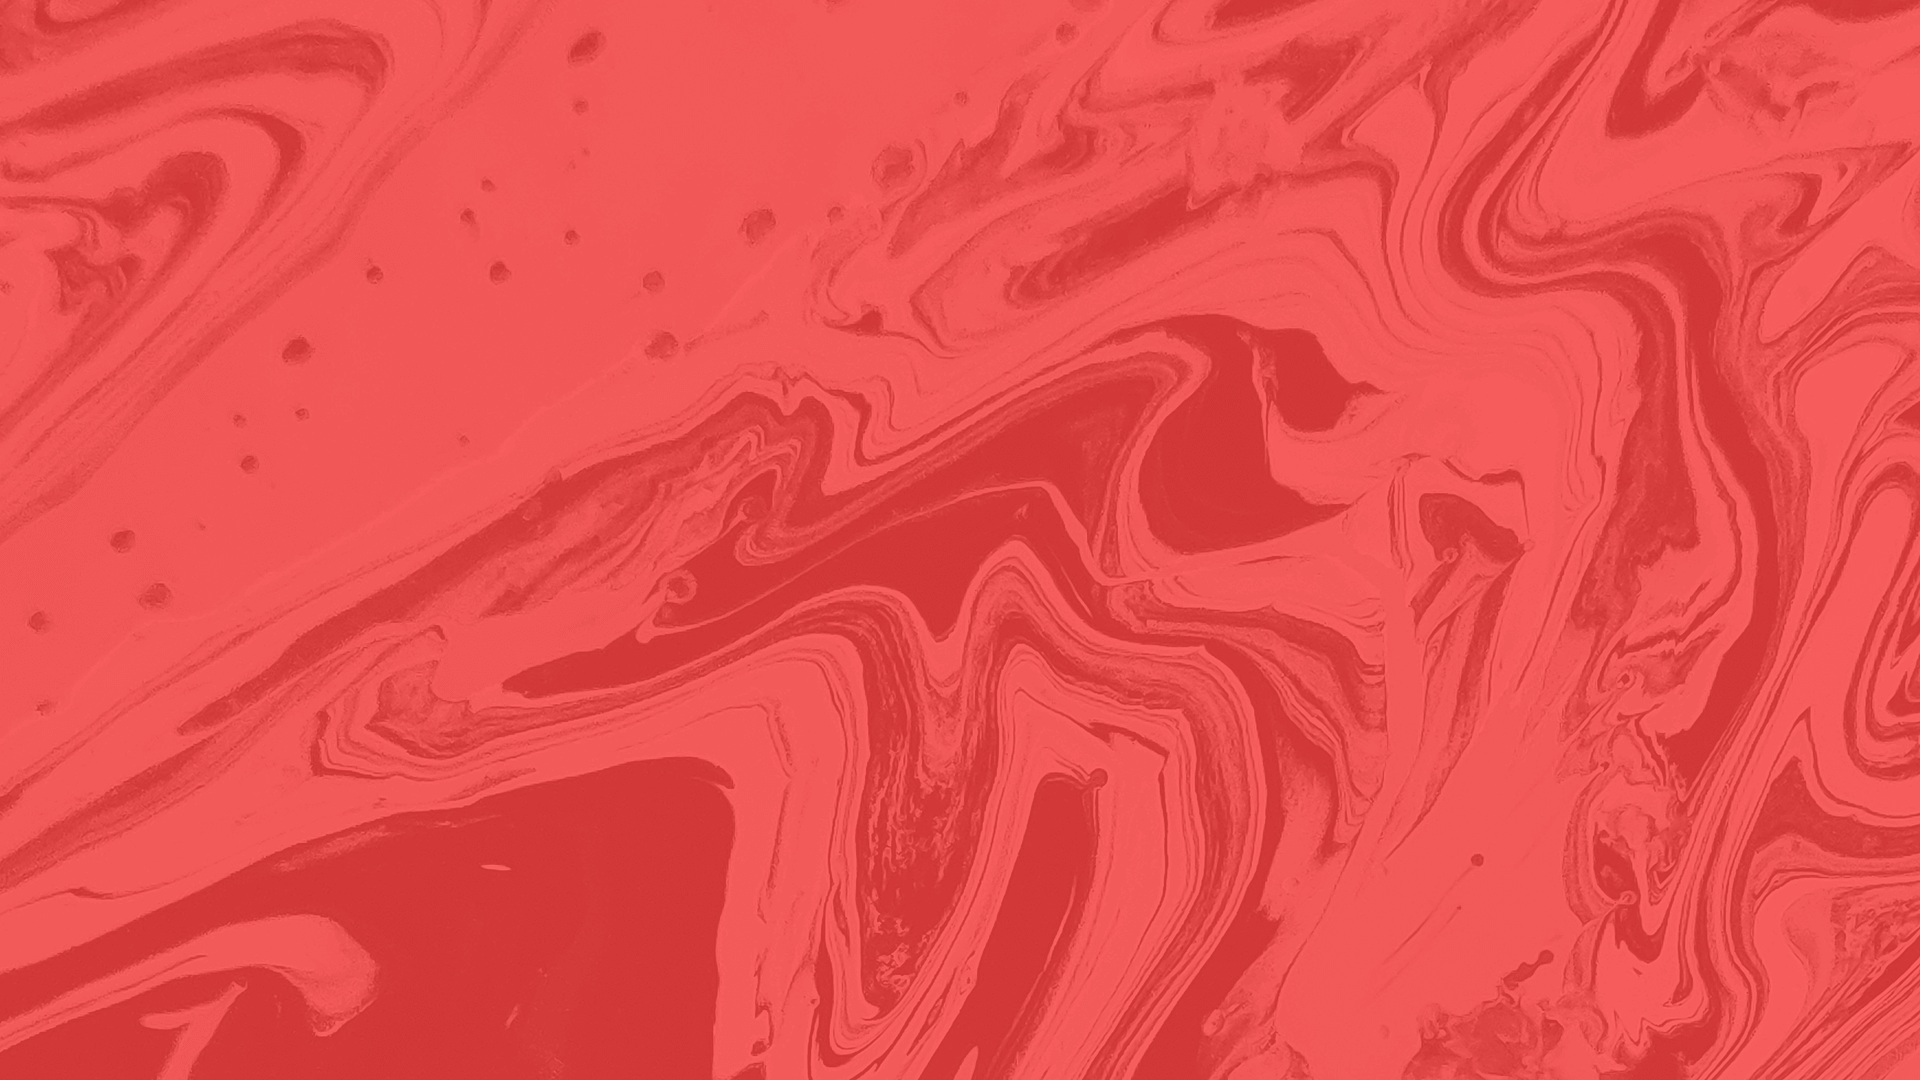
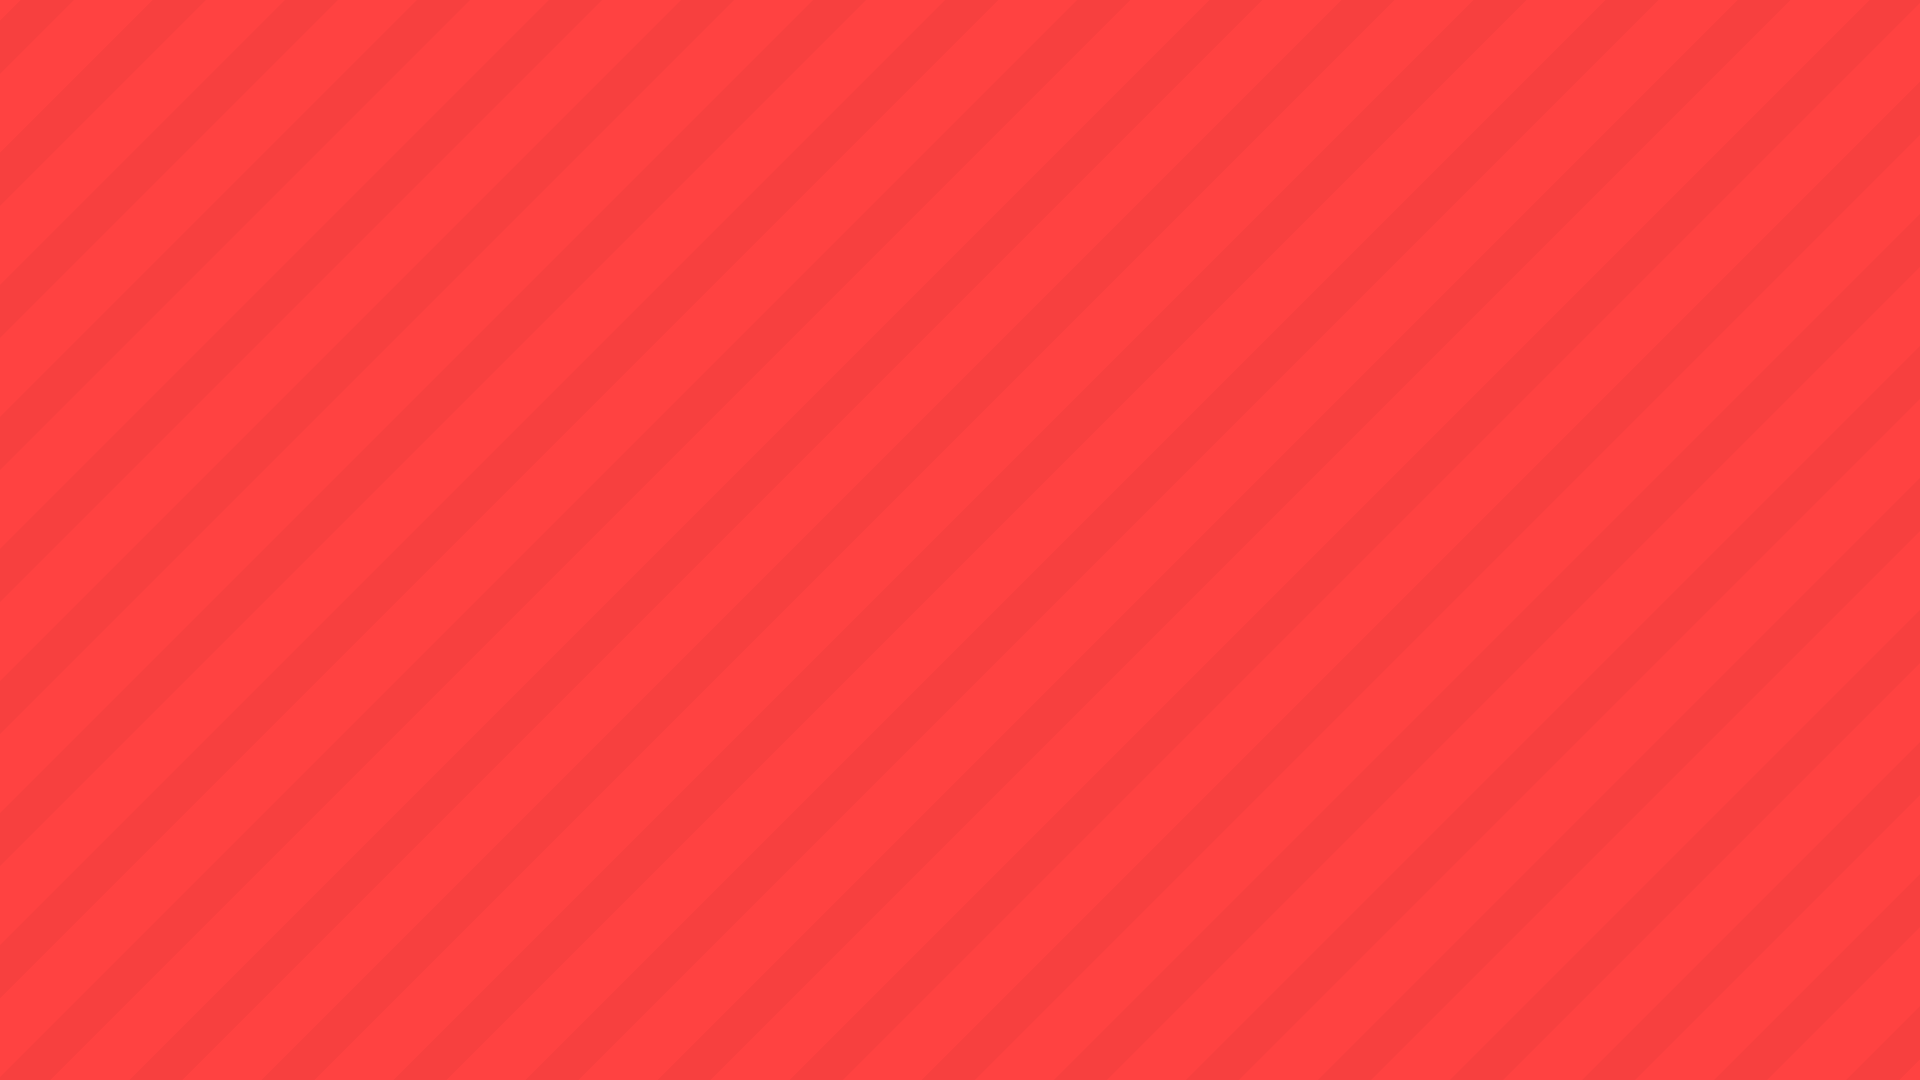
Correccion scroll y BG Red

diff --git a/css/style.css b/css/style.css
@@ -575,7 +575,9 @@ body {
     font-size: 8rem;
     text-align: center;
     -webkit-text-stroke: 1px #FE403F;
-    opacity: 0.1; } }
+    opacity: 0.1; }
+  .home__hero__col2 {
+    padding-top: 200px; } }
 
 /* COMPUTADORA GRANDE */
 @media (min-width: 1200px) {
@@ -608,7 +610,9 @@ body {
     font-size: 9rem;
     text-align: center;
     -webkit-text-stroke: 1px #FE403F;
-    opacity: 0.1; } }
+    opacity: 0.1; }
+  .home__hero__col2 {
+    padding-top: 150px; } }
 
 /* COLORES */
 /* TIPOGRAFÍA */
@@ -616,7 +620,10 @@ body {
   font-size: 62,5%; }
 
 .home__about {
-  background: linear-gradient(-90deg, #ff4747 0%, #ff3b3b 100%);
+  background-image: url(../imagenes/bg-about.png);
+  background-position: center;
+  background-repeat: no-repeat;
+  background-size: cover;
   padding: 200px 50px 200px 50px !important; }
 
 .home__about__col1 {
@@ -959,7 +966,10 @@ body {
   font-size: 62,5%; }
 
 .home__contacto {
-  background: linear-gradient(90deg, #ff4747 0%, #ff3b3b 100%);
+  background-image: url(../imagenes/bg-about.png);
+  background-position: center;
+  background-repeat: no-repeat;
+  background-size: cover;
   padding: 200px 50px 200px 50px !important; }
 
 .home__contacto__col1 {
@@ -1000,7 +1010,8 @@ body {
   color: white;
   font-family: rift, sans-serif;
   font-size: 1rem;
-  font-style: italic; }
+  font-style: italic;
+  outline: none; }
 
 .home__contacto__input::placeholder {
   font-family: rift, sans-serif;
@@ -1020,7 +1031,8 @@ body {
   color: white;
   font-family: rift, sans-serif;
   font-size: 1rem;
-  font-style: italic; }
+  font-style: italic;
+  outline: none; }
 
 .home__contacto__mensaje::placeholder {
   font-family: rift, sans-serif;

diff --git a/scss/home__contacto.scss b/scss/home__contacto.scss
@@ -1,7 +1,10 @@
 @import "variables.scss";
 
 .home__contacto {
-    background: linear-gradient(90deg, rgba(255,71,71,1) 0%, rgba(255,59,59,1) 100%);
+    background-image: url(../imagenes/bg-about.png);
+    background-position: center;
+    background-repeat: no-repeat;
+    background-size: cover;
     padding: 200px 50px 200px 50px !important;
 }
 
@@ -48,6 +51,7 @@
     font-family: $fuente;
     font-size: 1rem;
     font-style: italic;
+    outline: none;
 }
 
 .home__contacto__input::placeholder {
@@ -70,6 +74,7 @@
     font-family: $fuente;
     font-size: 1rem;
     font-style: italic;
+    outline: none;
 }
 
 .home__contacto__mensaje::placeholder {

diff --git a/index.html b/index.html
@@ -216,7 +216,7 @@
                     contestaremos a la brevedad!</p>
             </div>
             <div class="col-sm-12 col-md-6 col-lg-4">
-                <form action="" data-aos="zoom-in" data-aos-delay="800">
+                <form action="form.php" method="POST" data-aos="zoom-in" data-aos-delay="800">
                     <fieldset>
                         <input type="text" placeholder="Nombre" name="nombre" class="home__contacto__input" required>
                     </fieldset>

diff --git a/scss/home__about.scss b/scss/home__about.scss
@@ -1,7 +1,10 @@
 @import "variables.scss";
 
 .home__about {
-    background: linear-gradient(-90deg, rgba(255,71,71,1) 0%, rgba(255,59,59,1) 100%);
+    background-image: url(../imagenes/bg-about.png);
+    background-position: center;
+    background-repeat: no-repeat;
+    background-size: cover;
     padding: 200px 50px 200px 50px !important;
 }
 

diff --git a/scss/home__hero.scss b/scss/home__hero.scss
@@ -333,6 +333,10 @@
         -webkit-text-stroke: 1px $rojo;
         opacity: 0.1;
     }
+
+    .home__hero__col2 {
+      padding-top: 200px;
+  }
 }
 
 /* COMPUTADORA GRANDE */
@@ -373,4 +377,8 @@
         -webkit-text-stroke: 1px $rojo;
         opacity: 0.1;
     }
+
+    .home__hero__col2 {
+      padding-top: 150px;
+  }
 }

diff --git a/form.php b/form.php
@@ -1,0 +1,16 @@
+<?php
+
+$destinatario = "guindasocialmedia@gmail.com";
+$asunto = "Consulta Guinda Social Media";
+$nombre = $_POST ['nombre'];
+$email = $_POST ['email'];
+$mensaje = $_POST ['mensaje'];
+$remitente = $_REQUEST['email'];
+$header = "From: $remitente";
+$mensajeCompleto = $mensaje . "\n\nNombre: " . $nombre . " / Email: " . $email;
+
+mail($destinatario, $asunto, $mensajeCompleto, $header);
+echo "<script>alert('Correo enviado exitosamente')</script>";
+echo "<script>setTimeout(\"location.href='index.html'\",1000)</script>";
+
+?>
